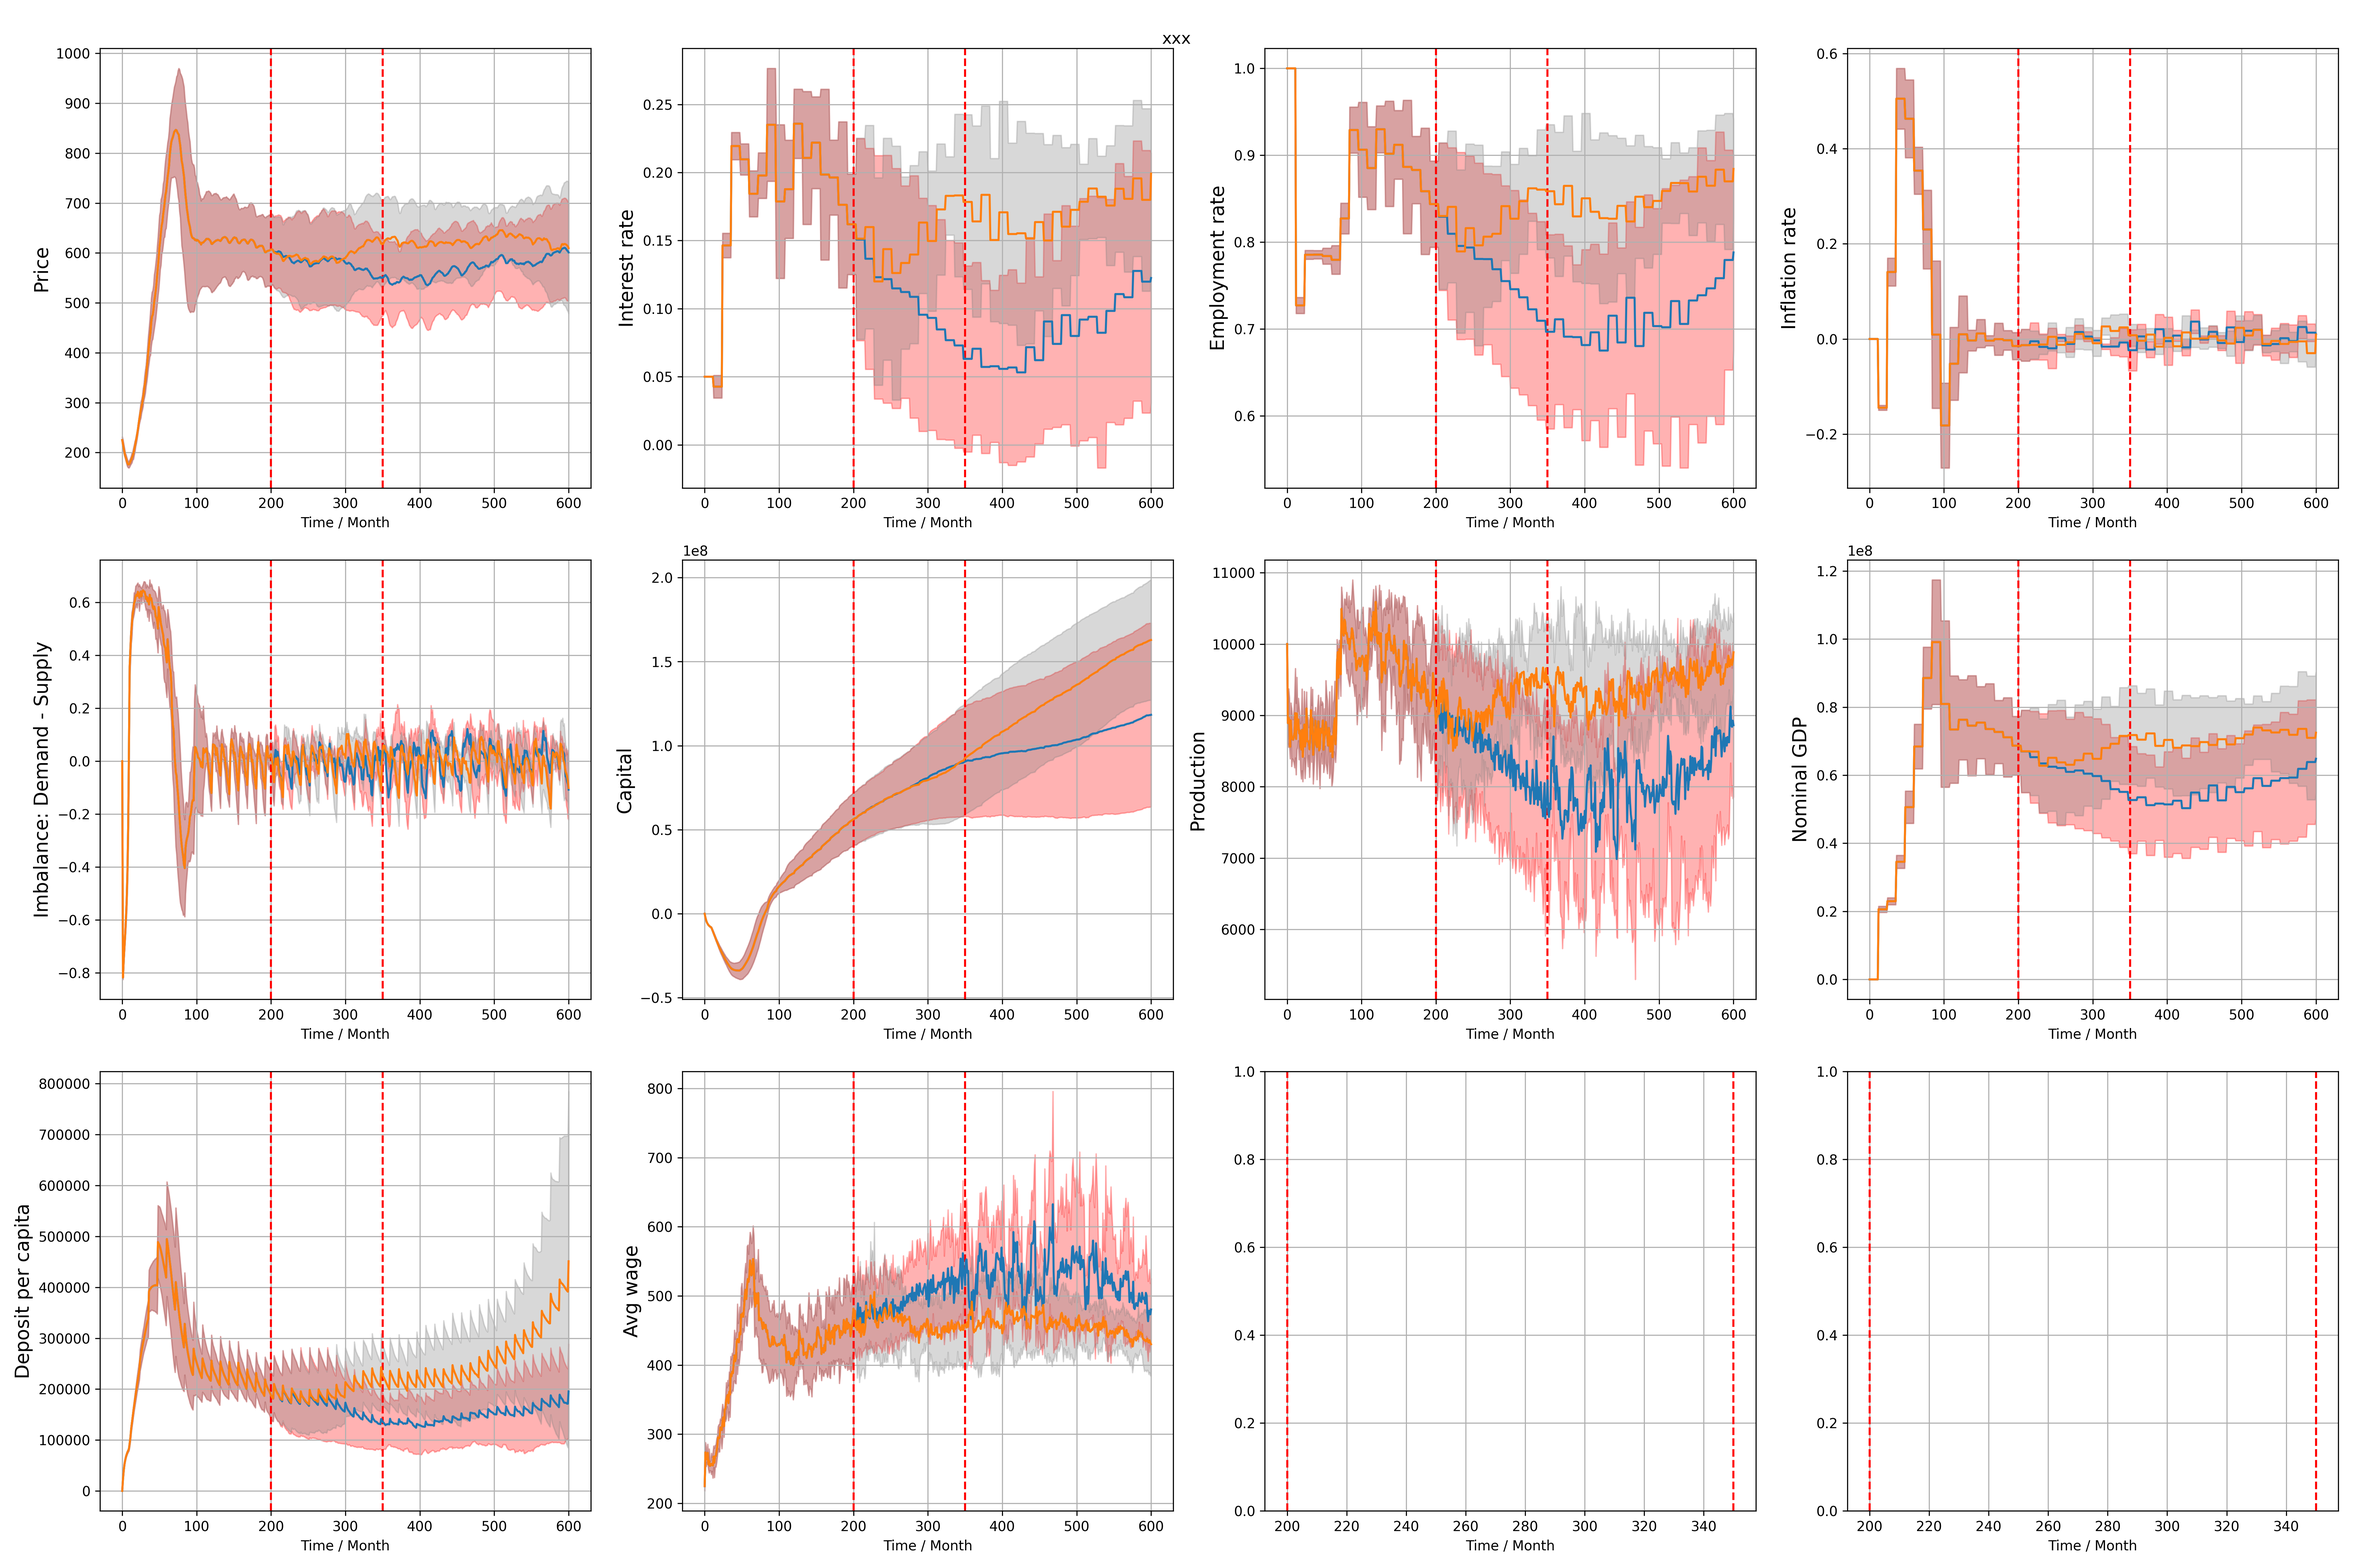
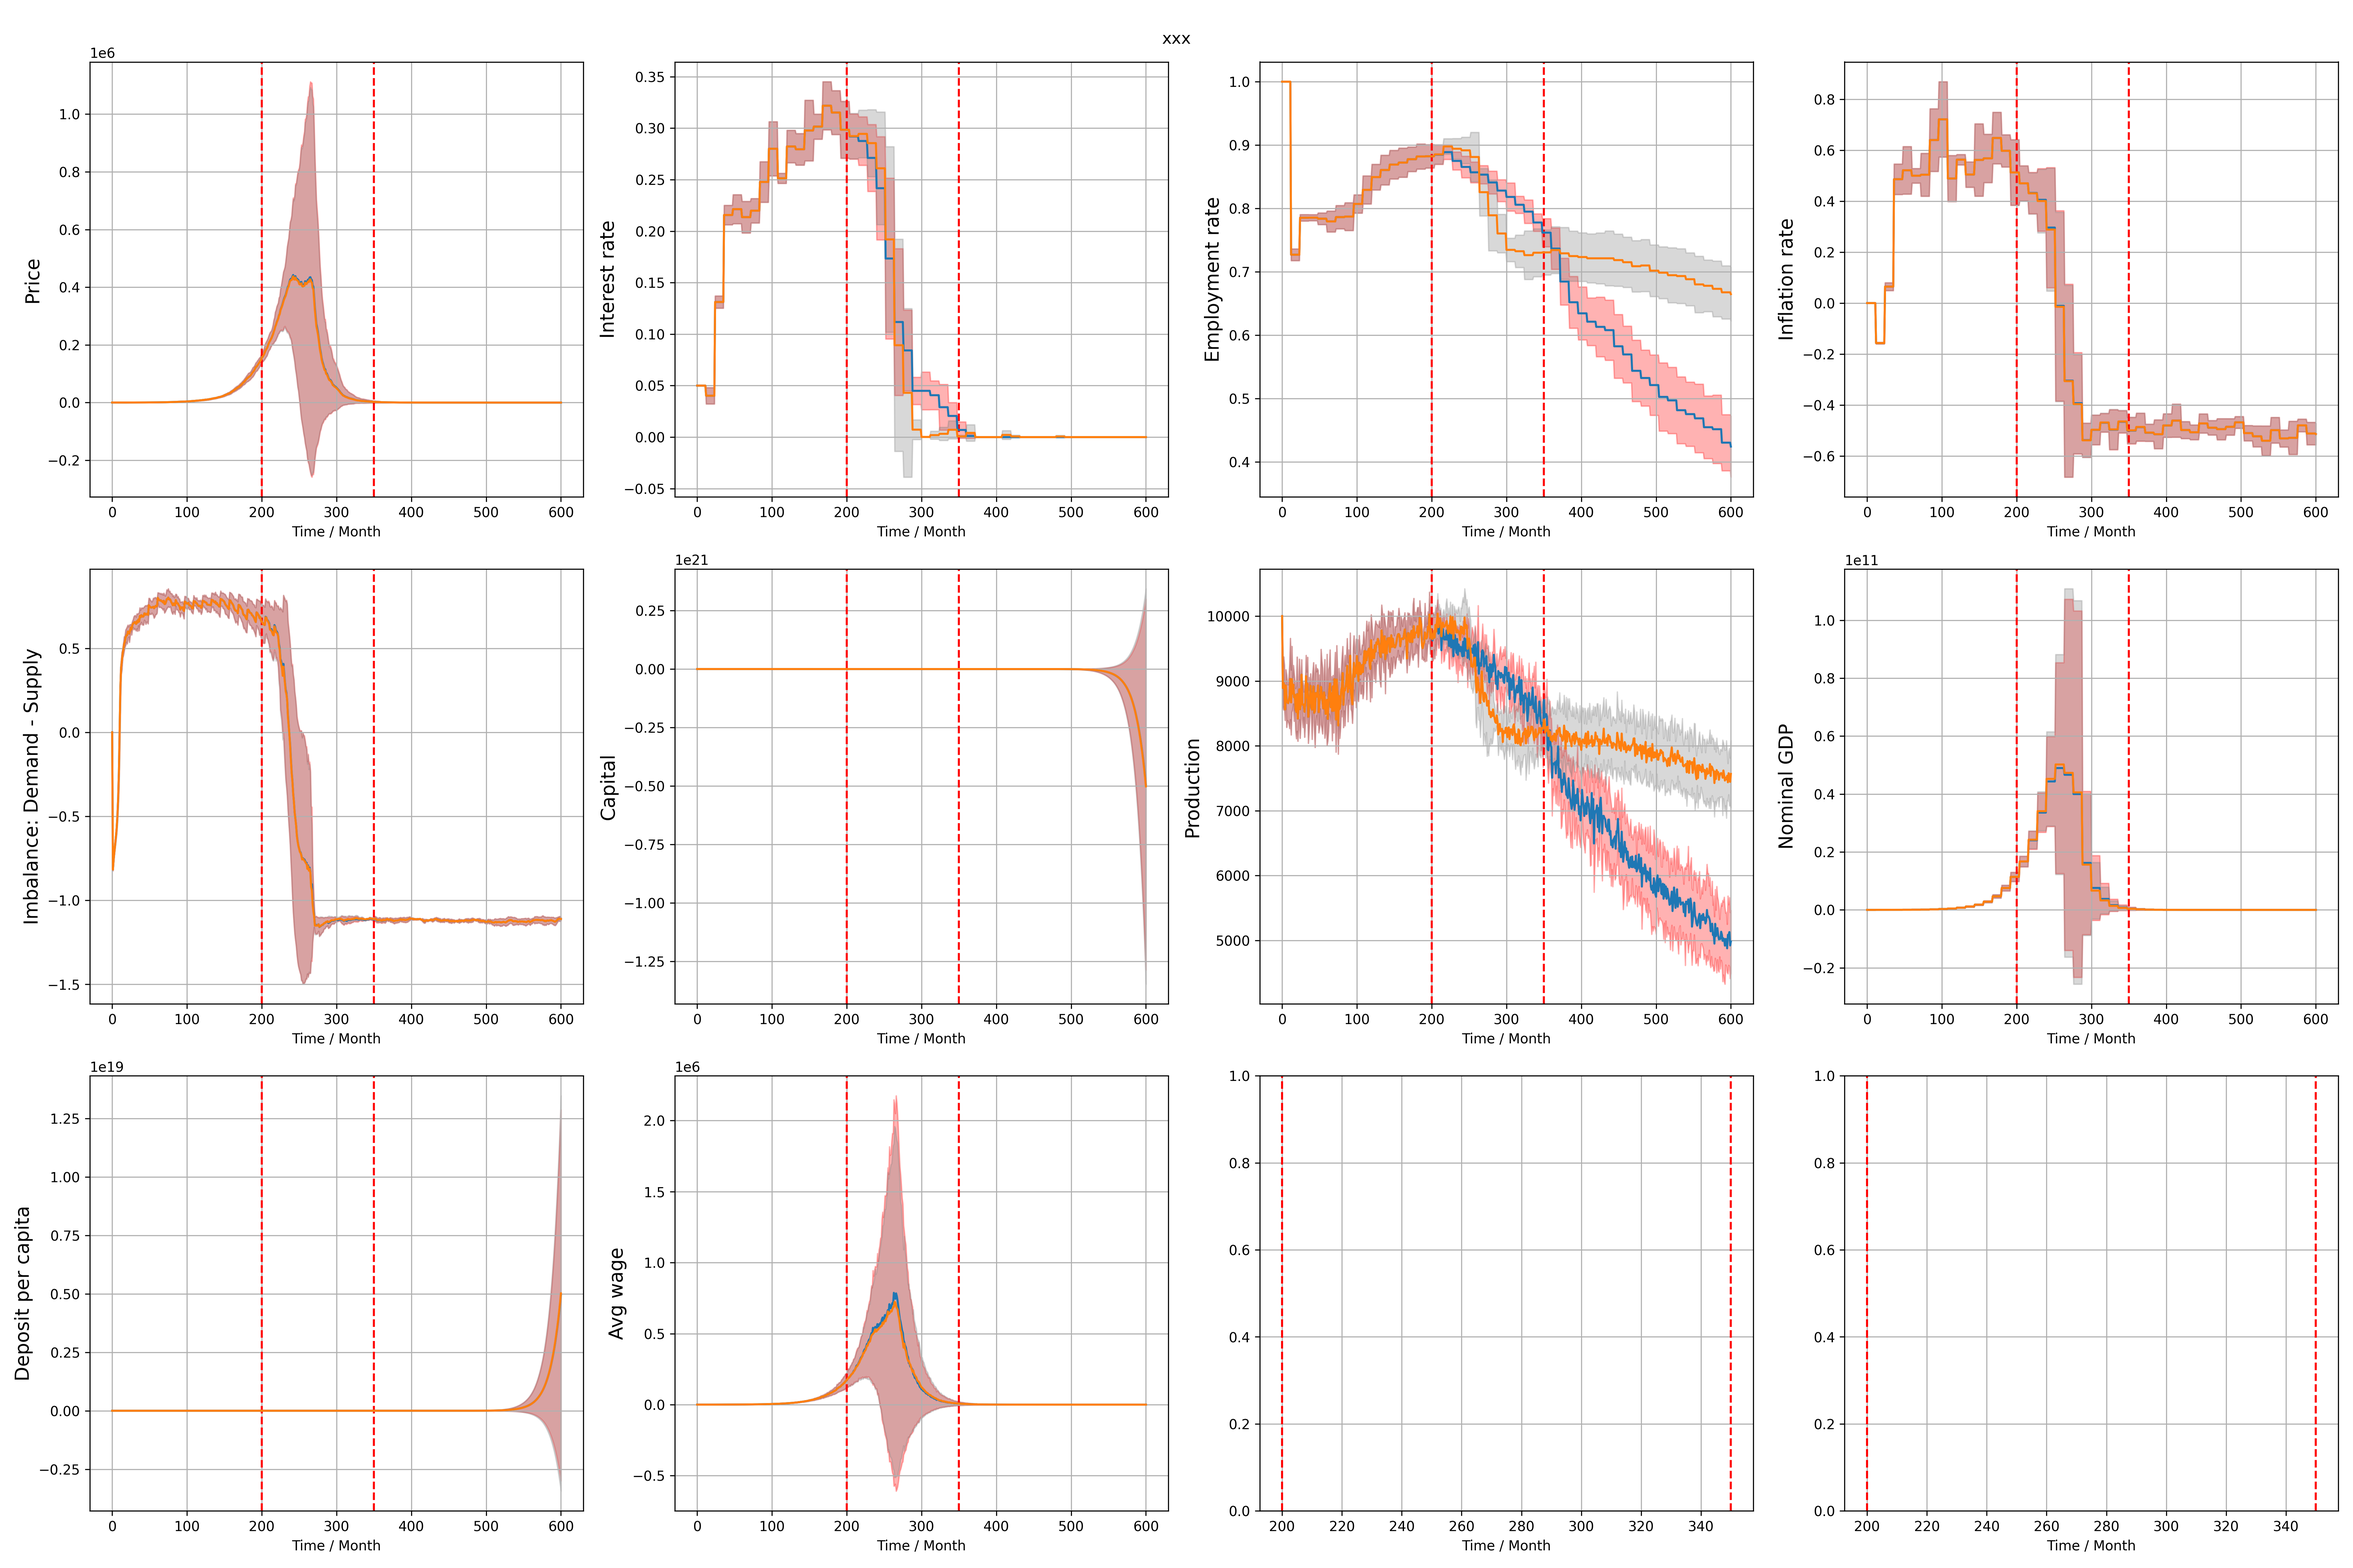
123

diff --git a/src/agent.py b/src/agent.py
@@ -16,7 +16,15 @@ class agent:
     homogeneous worker/consumer agent.
     working skill is same (unit one) for all agents.
     '''
-    def __init__(self, id:int, pw:float, pc:float, gamma:float, beta:float):
+    def __init__(self, 
+                 id:int, 
+                 pw:float, 
+                 pc:float, 
+                 gamma:float, 
+                 beta:float, 
+                 pw_delta:float, 
+                 pc_delta:float,
+                 ):
         self.id = id
         self.pw = pw         # probability of working
         self.w = beta_dist() # hourly wage
@@ -25,6 +33,8 @@ class agent:
         self.l = 0           # work state (0: unemployed, 1: employed)
         self.gamma = gamma
         self.beta = beta
+        self.pw_delta = pw_delta
+        self.pc_delta = pc_delta
         
         
     def work_decision(self,):
@@ -45,3 +55,21 @@ class agent:
         '''
         self.pc = pow(P / (deposit + self.z + 1e-5), self.beta)
         return self.pc
+    
+    def adjust(self, timestep:int, log:dict):
+        last_period_deposit = sum([log[tt]['deposit'][self.id]*(1+log[tt]['rate']) for tt in range(timestep-6+1, timestep-3+1)])
+        this_period_deposit = sum([log[tt]['deposit'][self.id]*(1+log[tt]['rate']) for tt in range(timestep-3+1, timestep+1)])
+        sgn_deposit = -1 if this_period_deposit >= last_period_deposit else 1
+        
+        last_period_wage = sum([log[tt]['wage'][self.id] for tt in range(timestep-6+1, timestep-3+1)])
+        this_period_wage = sum([log[tt]['wage'][self.id] for tt in range(timestep-3+1, timestep+1)])
+        sgn_wage = 1 if this_period_wage >= last_period_wage else -1
+        
+        last_period_price = sum([log[tt]['price'] for tt in range(timestep-6+1, timestep-3+1)])
+        this_period_price = sum([log[tt]['price'] for tt in range(timestep-3+1, timestep+1)])
+        sgn_price = -1 if this_period_price >= last_period_price else 1
+        
+        self.pw += sgn_deposit * np.random.uniform() * self.pw_delta # 存款多了减少工作意愿
+        self.pw += sgn_wage * np.random.uniform() * self.pw_delta    # 工资多了增加工作意愿
+        self.pc += sgn_price * np.random.uniform() * self.pc_delta   # 价格上涨减少消费意愿
+        self.pc += sgn_deposit * np.random.uniform() * self.pc_delta # 存款多了增加消费意愿

diff --git a/main.py b/main.py
@@ -149,22 +149,7 @@ def simulation(config:Configuration, event=False, intervention=False):
         
         if t % 6 == 0 and t > 60:
             for a in agents:
-                last_period_deposit = sum([log[tt]['deposit'][a.id]*(1+log[tt]['rate']) for tt in range(t-12+1, t-6+1)])
-                this_period_deposit = sum([log[tt]['deposit'][a.id]*(1+log[tt]['rate']) for tt in range(t-6+1, t+1)])
-                sgn_deposit = -1 if this_period_deposit >= last_period_deposit else 1
-                
-                last_period_wage = sum([log[tt]['wage'][a.id] for tt in range(t-12+1, t-6+1)])
-                this_period_wage = sum([log[tt]['wage'][a.id] for tt in range(t-6+1, t+1)])
-                sgn_wage = 1 if this_period_wage >= last_period_wage else -1
-                
-                last_period_price = sum([log[tt]['price'] for tt in range(t-12+1, t-6+1)])
-                this_period_price = sum([log[tt]['price'] for tt in range(t-6+1, t+1)])
-                sgn_price = -1 if this_period_price >= last_period_price else 1
-                
-                a.pw += sgn_deposit * np.random.uniform() * config.pw_delta # 存款多了减少工作意愿
-                a.pw += sgn_wage * np.random.uniform() * config.pw_delta    # 工资多了增加工作意愿
-                a.pc += sgn_price * np.random.uniform() * config.pc_delta   # 价格上涨减少消费意愿
-                a.pc += sgn_deposit * np.random.uniform() * config.pc_delta # 存款多了增加消费意愿
+                a.adjust(t, log)
 
     return log
 

diff --git a/src/firm.py b/src/firm.py
@@ -24,12 +24,20 @@ class firm:
         return production
     
     def wage_adjustment(self, agent_list:list[agent], imbalance:float):
+        '''
+        imbalance>0, 需求 > 产量, 提高工资
+        imbalance<0, 需求 < 产量, 降低工资
+        '''
         assert len(agent_list) > 0
         sgn = 1 if imbalance > 0 else -1
         for a in agent_list:
             a.w *= (1 + sgn * self.alpha_w * abs(imbalance) * np.random.uniform())
     
     def price_adjustment(self, imbalance:float):
+        '''
+        imbalance>0, 需求 > 产量, 提高价格
+        imbalance<0, 需求 < 产量, 降低价格
+        '''
         sgn = 1 if imbalance > 0 else -1
         self.P *= (1 + sgn * self.alpha_p * abs(imbalance) * np.random.uniform())
         return self.P

diff --git a/utils.py b/utils.py
@@ -8,7 +8,9 @@ def init_agents(config:Configuration) -> list[agent]:
                   pw=np.random.uniform(config.pw_low, config.pw_high), 
                   pc=np.random.uniform(config.pc_low, config.pc_high), 
                   gamma=config.gamma, 
-                  beta=config.gamma) for i in range(config.num_agents)]
+                  beta=config.gamma,
+                  pw_delta=config.pw_delta,
+                  pc_delta=config.pc_delta,) for i in range(config.num_agents)]
 
 def taxation(wages:list[float]):
     '''

diff --git a/config.py b/config.py
@@ -21,7 +21,7 @@ class Configuration:
     #####################################
     
     A = 1.0         # 生产率
-    alpha_w = 0.05
+    alpha_w = 0.10
     alpha_p = 0.10
     
     #####################################
